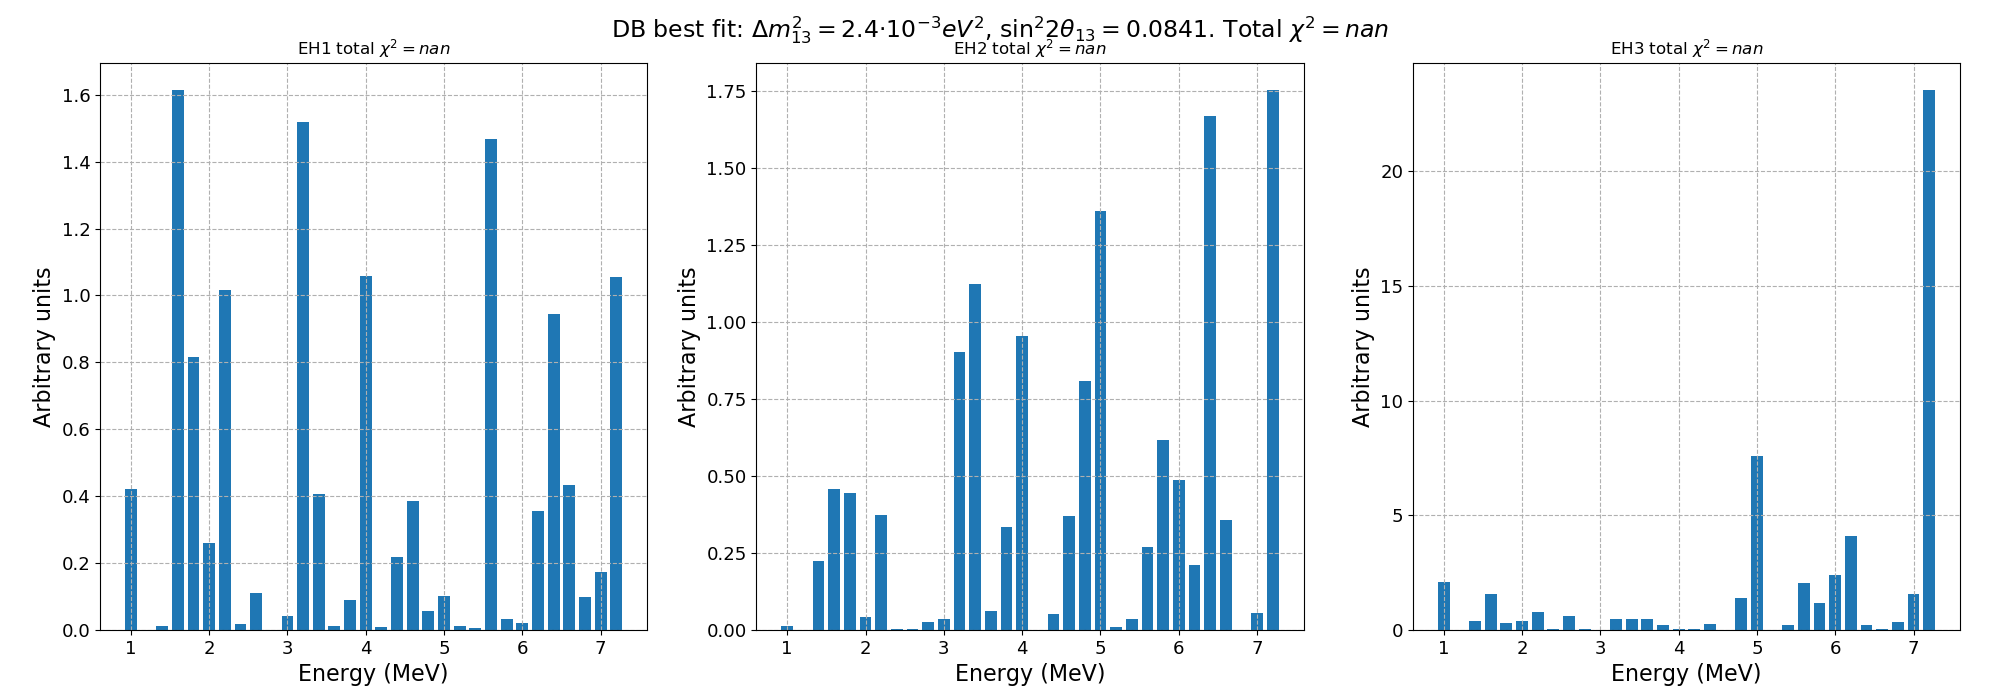
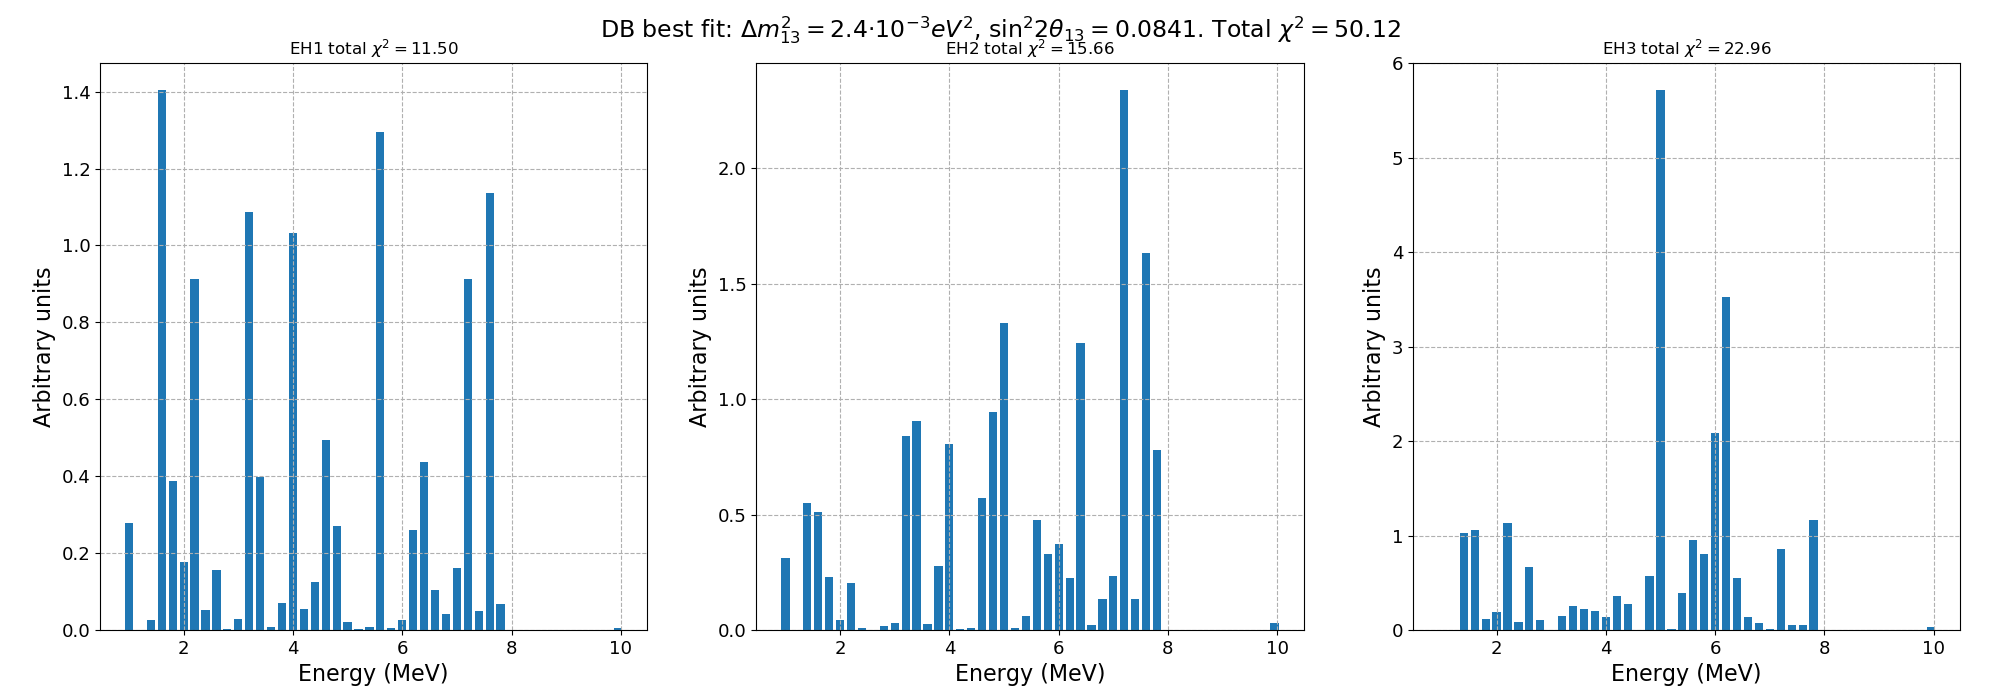
Implemented chi2 test with covariance matrix from flux.

diff --git a/GlobalFit/GlobalFit.py b/GlobalFit/GlobalFit.py
@@ -17,6 +17,7 @@ class GlobalFit:
     # ---------------------------
     def __init__(self):
         self.sets_names = ['EH1','EH2','EH3','NEOS']
+        self.deltaEfine = 0.05 # in MeV. It is the resolution of the Etrue to Erec matrix
 
         # We allow for different number of bins between different experiments.
         # However, the edges of the bins should coincide.
@@ -27,6 +28,12 @@ class GlobalFit:
         self.DataAllBinEdges   = GFD.datallbin
         self.DeltaE = GFD.deltaE
 
+
+        self.NeutrinoLowerBinEdges = GFD.neutrino_lower_bin_edges
+        self.NeutrinoUpperBinEdges = GFD.neutrino_upper_bin_edges
+        self.NeutrinoCovarianceMatrix = GFD.neutrino_cov_mat
+        self.FromEtrueToErec = GFD.reconstruct_mat
+
         # For more information on the necessary format of the data, check GlobalFitData.py
         self.AllData = GFD.all_data
         self.ObservedData = dict([(set_name,self.AllData[set_name][:,0]) for set_name in self.sets_names])
@@ -36,6 +43,23 @@ class GlobalFit:
         # These are the objects which allow to compute the event expectations for each experiment.
         self.DBexp = DB.DayaBay()
         self.NEOSexp = NEOS.Neos()
+
+    def FindFineBinIndex(self,energy):
+        """
+        Input:
+        energy (float): prompt energy or neutrino true energy.
+
+        Output:
+        An integer telling us the index of the true_energy_bin_centers
+        bin in which the input energy is found.
+        """
+        dindex = np.int(np.floor(energy/self.deltaEfine - 0.5))
+        if dindex<0:
+            return 0
+        else:
+            return dindex
+
+
 
     def get_predicted_obs(self,model,do_integral_DB = False, do_integral_NEOS = False, do_average_DB = False, do_average_NEOS = False):
         """
@@ -144,6 +168,12 @@ class GlobalFit:
 
         return model_expectations
 
+
+
+# ----------------------------------------------------------
+# FITTING THE DATA
+# ----------------------------------------------------------
+
     def get_poisson_chi2(self,model,integrate_DB = False, integrate_NEOS = False,
                                     average_DB = False, average_NEOS = False):
         """
@@ -167,3 +197,57 @@ class GlobalFit:
             TotalLogPoisson += np.sum(k - lamb + k*np.log(lamb/k))
 
         return -2*TotalLogPoisson
+
+
+# ----------------------------------------------------------
+# FITTING THE DATA WITH THE COVARIANCE MATRIX
+# ----------------------------------------------------------
+
+    def get_inverse_flux_covariance(self):
+        """
+        Returns the inverse of the neutrino covariance matrix, V^-1.
+        The output is a dictionary with the different covariances matrices for every experiment.
+        """
+        vinv = dict([(set_name,np.linalg.inv(np.array(self.NeutrinoCovarianceMatrix[set_name])))
+                      for set_name in self.sets_names])
+
+        return vinv
+
+    def get_resolution_matrix_underdim(self):
+        """
+        Returns an underdimension of the response matrix.
+        The output is a dictionary with the different response matrices for every experiment.
+        """
+        resmats = {}
+        for set_name in self.sets_names:
+            mat = np.zeros((len(self.NeutrinoLowerBinEdges[set_name]),self.n_bins[set_name]))
+            for i in range(0,self.n_bins[set_name]):
+                minrec = self.FindFineBinIndex(self.DataLowerBinEdges[set_name][i])
+                maxrec = self.FindFineBinIndex(self.DataUpperBinEdges[set_name][i])
+                for j in range(0,len(self.NeutrinoLowerBinEdges[set_name])):
+                    mintrue = self.FindFineBinIndex(self.NeutrinoLowerBinEdges[set_name][j])
+                    maxtrue = self.FindFineBinIndex(self.NeutrinoUpperBinEdges[set_name][j])
+                    mat[j,i] = np.mean(self.FromEtrueToErec[set_name][mintrue:maxtrue,minrec:maxrec])
+            resmats.update({set_name:mat})
+        return resmats
+
+    def get_chi2(self,model, integrate_DB = False, integrate_NEOS = False,
+                             average_DB = False, average_NEOS = False):
+        """
+        Input: a  model with which to compute expectations.
+        Output: a chi2 statistic comparing data and expectations.
+        """
+        U = self.get_resolution_matrix_underdim()
+        Vinv = self.get_inverse_flux_covariance()
+
+        Exp = self.get_expectation(model,do_we_integrate_DB = integrate_DB, do_we_integrate_NEOS = integrate_NEOS,
+                                         do_we_average_DB  =  average_DB,   do_we_average_NEOS =   average_NEOS)
+        Data = self.ObservedData
+        chi2 = 0.
+        for set_name in self.sets_names:
+            exp_i = Exp[set_name][:,0]
+            dat_i = Data[set_name]
+
+            chi2 += (dat_i-exp_i).dot((U[set_name].transpose()).dot(Vinv[set_name].dot(U[set_name].dot(dat_i-exp_i))))
+
+        return chi2

diff --git a/NEOS/NEOS.py b/NEOS/NEOS.py
@@ -40,6 +40,7 @@ class Neos:
         self.DistanceFromReactorToHall = NEOSP.distance
         self.WidthOfHall = NEOSP.width
 
+        self.NeutrinoCovarianceMatrix = NEOSP.neutrino_covariance_matrix
         self.NeutrinoLowerBinEdges = NEOSP.nulowerbin
         self.NeutrinoUpperBinEdges = NEOSP.nuupperbin
         self.NeutrinoFlux = NEOSP.spectrum
@@ -407,18 +408,17 @@ class Neos:
 # FITTING THE DATA
 # ----------------------------------------------------------
 
-    def get_poisson_chi2(self,model):
+    def get_poisson_chi2(self,model, do_we_integrate = False, do_we_average = False):
         """
-        Computes the chi2 value from the Poisson probability, taking into account
-        every bin from the NEOS detector.
+        Computes the "chi2" value from the Poisson probability, taking into account
+        every bin from every DayaBay detector.
 
         Input:
         model: a model from Models.py for which to compute the expected number of events.
 
-        Output: (float) the chi2 value.
+        Output: (float) the log Poisson "chi2" value.
         """
-        # Honestly, have never tried this. Probably, it should work.
-        Exp = self.get_expectation(model)
+        Exp = self.get_expectation(model, integrate = do_we_integrate, average = do_we_average)
         Data = self.ObservedData
 
         TotalLogPoisson = 0.0
@@ -428,3 +428,46 @@ class Neos:
             TotalLogPoisson += (k - lamb + k*np.log(lamb/k))#*fudge[set_name]
 
         return -2*np.sum(TotalLogPoisson)
+
+# ----------------------------------------------------------
+# FITTING THE DATA WITH THE COVARIANCE MATRIX
+# ----------------------------------------------------------
+
+    def get_inverse_flux_covariance(self):
+        """
+        Returns the inverse of the neutrino covariance matrix, V^-1.
+        """
+        return np.linalg.inv(np.array(self.NeutrinoCovarianceMatrix))
+
+    def get_resolution_matrix_underdim(self):
+        """
+        Returns an underdimension of the response matrix.
+        """
+        mat = np.zeros((len(self.NeutrinoLowerBinEdges),self.n_bins))
+        for i in range(0,self.n_bins):
+            minrec = self.FindFineBinIndex(self.DataLowerBinEdges[i])
+            maxrec = self.FindFineBinIndex(self.DataUpperBinEdges[i])
+            for j in range(0,len(self.NeutrinoLowerBinEdges)):
+                mintrue = self.FindFineBinIndex(self.NeutrinoLowerBinEdges[j])
+                maxtrue = self.FindFineBinIndex(self.NeutrinoUpperBinEdges[j])
+                mat[j,i] = np.mean(self.FromEtrueToErec[mintrue:maxtrue,minrec:maxrec])
+        return mat
+
+    def get_chi2(self,model, do_we_integrate = False, do_we_average = False):
+        """
+        Input: a  model with which to compute expectations.
+        Output: a chi2 statistic comparing data and expectations.
+        """
+        U = self.get_resolution_matrix_underdim()
+        UT = U.transpose()
+        Vinv = self.get_inverse_flux_covariance()
+
+        Exp = self.get_expectation(model, integrate = do_we_integrate, average = do_we_average)
+        Data = self.ObservedData
+        chi2 = 0.
+        for set_name in self.sets_names:
+            exp_i = Exp[set_name][:,0]#+Bkg[set_name]
+            dat_i = Data[set_name]
+            chi2 += (dat_i-exp_i).dot(UT.dot(Vinv.dot(U.dot(dat_i-exp_i))))
+
+        return chi2

diff --git a/DayaBay/DayaBay.py b/DayaBay/DayaBay.py
@@ -376,7 +376,7 @@ class DayaBay:
 # FITTING THE DATA
 # ----------------------------------------------------------
 
-    def get_poisson_chi2(self,model):
+    def get_poisson_chi2(self,model, do_we_integrate = False, do_we_average = False):
         """
         Computes the "chi2" value from the Poisson probability, taking into account
         every bin from every DayaBay detector.
@@ -386,7 +386,7 @@ class DayaBay:
 
         Output: (float) the log Poisson "chi2" value.
         """
-        Exp = self.get_expectation(model)
+        Exp = self.get_expectation(model, integrate = do_we_integrate, average = do_we_average)
         Data = self.ObservedData
         #Bkg = self.PredictedBackground
         TotalLogPoisson = 0.0
@@ -399,17 +399,19 @@ class DayaBay:
 
 
 # ----------------------------------------------------------
-# Up to now, the following methods should not be useful
+# FITTING THE DATA WITH THE COVARIANCE MATRIX
 # ----------------------------------------------------------
 
     def get_inverse_flux_covariance(self):
+        """
+        Returns the inverse of the neutrino covariance matrix, V^-1.
+        """
         return np.linalg.inv(np.array(self.NeutrinoCovarianceMatrix))
 
-    def get_inverse_resolution_matrix(self):
-        return np.linalg.inv(np.array(self.FromEtrueToErec))
-
-    def get_inverse_resolution_matrix_underdim(self):
-        M = self.get_inverse_resolution_matrix()
+    def get_resolution_matrix_underdim(self):
+        """
+        Returns an underdimension of the response matrix.
+        """
         mat = np.zeros((len(self.NeutrinoLowerBinEdges),self.n_bins))
         for i in range(0,self.n_bins):
             minrec = self.FindFineBinIndex(self.DataLowerBinEdges[i])
@@ -420,14 +422,21 @@ class DayaBay:
                 mat[j,i] = np.mean(self.FromEtrueToErec[mintrue:maxtrue,minrec:maxrec])
         return mat
 
-    def get_chi2(self,model):
+    def get_chi2(self,model, do_we_integrate = False, do_we_average = False):
         """
         Input: a  model with which to compute expectations.
         Output: a chi2 statistic comparing data and expectations.
         """
-        U = self.get_inverse_resolution_matrix_underdim()
+        U = self.get_resolution_matrix_underdim()
         UT = U.transpose()
-        data = self.get_data()[0,:,0]
-        expectation = self.get_expectation(model)[0,:,0]
         Vinv = self.get_inverse_flux_covariance()
-        return (data-expectation).dot(UT.dot(Vinv.dot(U.dot(data-expectation))))
+
+        Exp = self.get_expectation(model, integrate = do_we_integrate, average = do_we_average)
+        Data = self.ObservedData
+        chi2 = 0.
+        for set_name in self.sets_names:
+            exp_i = Exp[set_name][:,0]#+Bkg[set_name]
+            dat_i = Data[set_name]
+            chi2 += (dat_i-exp_i).dot(UT.dot(Vinv.dot(U.dot(dat_i-exp_i))))
+
+        return chi2

diff --git a/GlobalFit/GlobalFitData.py b/GlobalFit/GlobalFitData.py
@@ -83,3 +83,43 @@ all_data = {'EH1': np.concatenate((txt_to_array(dirDB+"DataEH1.dat")[1:29,3:5],t
             'EH2': np.concatenate((txt_to_array(dirDB+"DataEH2.dat")[1:29,3:5],txt_to_array(dirDB+"DataEH2.dat")[1:29,6:7]),axis=1),
             'EH3': np.concatenate((txt_to_array(dirDB+"DataEH3.dat")[1:29,3:5],txt_to_array(dirDB+"DataEH3.dat")[1:29,6:7]),axis=1),
             'NEOS':fudge*txt_to_array(dirNEOS+'AllData.dat')[3:-2,0:3]}
+
+
+# RECONSTRUCTION MATRIX
+# ---------------------
+
+reconstruct_mat = {'EH1': txt_to_array(dirDB+"ReconstructMatrix.dat"),
+                   'EH2': txt_to_array(dirDB+"ReconstructMatrix.dat"),
+                   'EH3': txt_to_array(dirDB+"ReconstructMatrix.dat"),
+                   'NEOS': txt_to_array(dirNEOS+"ReconstructMatrix.dat")}
+
+
+# NEUTRINO BIN EDGES
+# ---------------------
+
+# Histogram bins of the neutrino real energies
+# The histogram bins begin at 1.800 since it is the minimum energy allowed for
+# neutrinos obtained from inverse beta decay.
+nulowerbin = np.array([1.800, 2.125, 2.375, 2.625, 2.875, 3.125, 3.375, 3.625, 3.875, 4.125, 4.375, 4.625, 4.875,
+              5.125, 5.375, 5.625, 5.875, 6.125, 6.375, 6.625, 6.875, 7.125, 7.375, 7.625, 7.875, 8.125])
+nuupperbin = np.array([2.125, 2.375, 2.625, 2.875, 3.125, 3.375, 3.625, 3.875, 4.125, 4.375, 4.625, 4.875, 5.125,
+              5.375, 5.625, 5.875, 6.125, 6.375, 6.625, 6.875, 7.125, 7.375, 7.625, 7.875, 8.125, 12.00])
+
+neutrino_lower_bin_edges = {'EH1': nulowerbin,
+                            'EH2': nulowerbin,
+                            'EH3': nulowerbin,
+                            'NEOS': nulowerbin}
+
+neutrino_upper_bin_edges = {'EH1': nuupperbin,
+                            'EH2': nuupperbin,
+                            'EH3': nuupperbin,
+                            'NEOS': nuupperbin}
+
+# NEUTRINO COVARIANCE MATRIX
+# --------------------------
+
+
+neutrino_cov_mat = {'EH1': txt_to_array(dirDB+"NeutrinoCovMatrix.dat"),
+                    'EH2': txt_to_array(dirDB+"NeutrinoCovMatrix.dat"),
+                    'EH3': txt_to_array(dirDB+"NeutrinoCovMatrix.dat"),
+                    'NEOS': txt_to_array(dirNEOS+"NeutrinoCovMatrix.dat")}

diff --git a/NEOS/NEOSParameters.py b/NEOS/NEOSParameters.py
@@ -71,7 +71,6 @@ def txt_to_array(filename, sep = ","):
 dir = os.path.dirname(os.path.abspath(__file__))+"/Data/"
 reconstruct_mat = txt_to_array(dir+"ReconstructMatrix.dat")
 
-# In order to
 
 
 # -------------------------------------------------------------
@@ -98,3 +97,13 @@ spectrum = np.array([344.19, 770.96, 1080.9, 1348.4, 1528.8, 1687.0, 1746.6, 176
                      1719.3, 1617.6, 1466.5, 1309.3, 1203.0, 1105.4, 976.50, 852.31,
                      713.19, 573.90, 463.54, 368.70, 274.56, 190.00, 132.08, 92.114,
                      56.689, 4.0214])
+
+# -----------------------------------------------------------
+# NEUTRINO COVARIANCE MATRIX
+# -----------------------------------------------------------
+
+# The neutrino flux covariance matrix is obtained from 1607.05378 Table 13.
+# Units (cm^2/fission/MeV)^2 x 10^{-92}
+neutrino_covariance_matrix = txt_to_array(dir+"NeutrinoCovMatrix.dat")
+cov_lower_edges = np.array([1.800, 2.125, 2.375, 2.625, 2.875, 3.125, 3.375, 3.625, 3.875, 4.125, 4.375, 4.625, 4.875, 5.125, 5.375, 5.625, 5.875, 6.125, 6.375, 6.625, 6.875, 7.125, 7.375, 7.625, 7.875, 8.125])
+cov_upper_edges = np.array([2.125, 2.375, 2.625, 2.875, 3.125, 3.375, 3.625, 3.875, 4.125, 4.375, 4.625, 4.875, 5.125, 5.375, 5.625, 5.875, 6.125, 6.375, 6.625, 6.875, 7.125, 7.375, 7.625, 7.875, 8.125, 12.000])

diff --git a/DayaBay/DayaBayParameters.py b/DayaBay/DayaBayParameters.py
@@ -108,9 +108,6 @@ cov_lower_edges = np.array([1.800, 2.125, 2.375, 2.625, 2.875, 3.125, 3.375, 3.6
 cov_upper_edges = np.array([2.125, 2.375, 2.625, 2.875, 3.125, 3.375, 3.625, 3.875, 4.125, 4.375, 4.625, 4.875, 5.125, 5.375, 5.625, 5.875, 6.125, 6.375, 6.625, 6.875, 7.125, 7.375, 7.625, 7.875, 8.125, 12.000])
 
 reconstruct_mat = txt_to_array(dir+"ReconstructMatrix.dat")
-for i in range(len(reconstruct_mat)):
-    print(np.sum(reconstruct_mat[i]),np.sum(reconstruct_mat[:,i]))
-print(np.sum(reconstruct_mat))
 
 
 

diff --git a/DayaBay/EventExpectationPlots.py b/DayaBay/EventExpectationPlots.py
@@ -40,7 +40,7 @@ print(begin_time-end_time)
 chi2_per_exp = []
 for exp in DB_test.sets_names:
     evex = pred[exp][:,0]
-    data = DB_test.AllData[exp][:,3]
+    data = DB_test.ObservedData[exp]
     chi2_per_exp.append(np.sum(-2*(data-evex+data*np.log(evex/data))))
 
 axis = [[0.7,12,0.,3.5],[0.7,12,0.,3.],[0.7,12,0.,0.9],[0.7,12,0.,0.6]]
